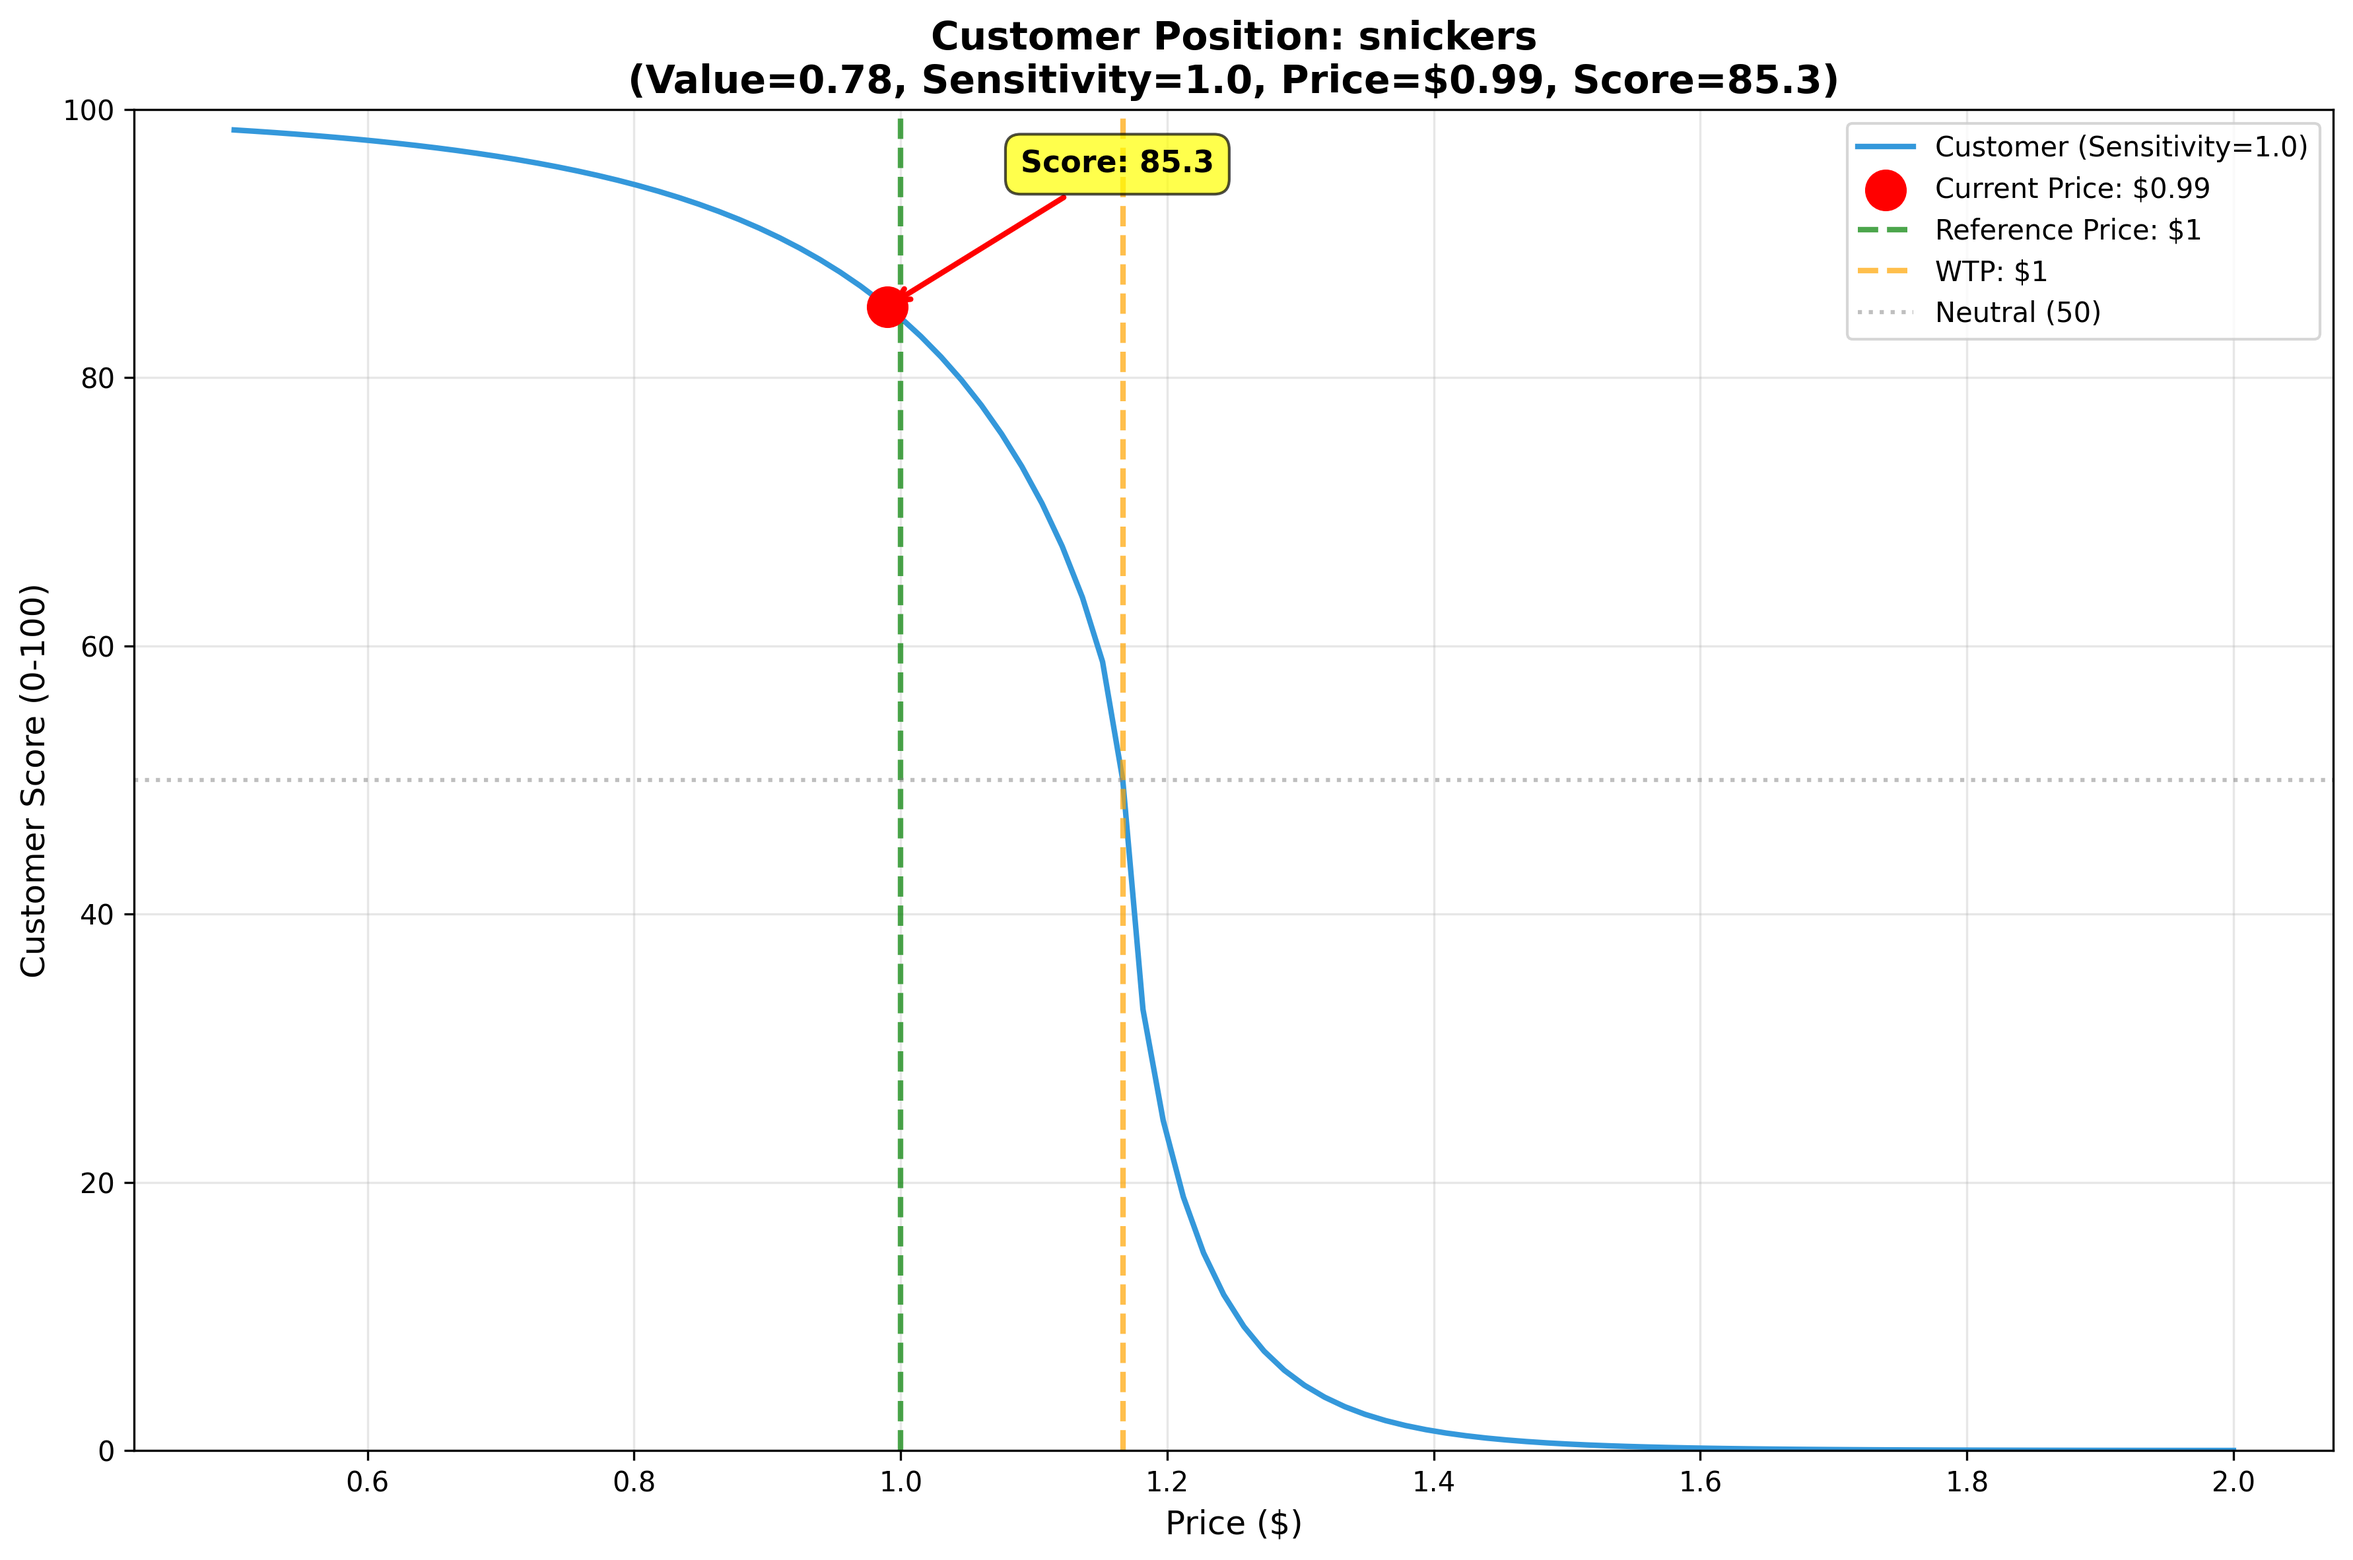
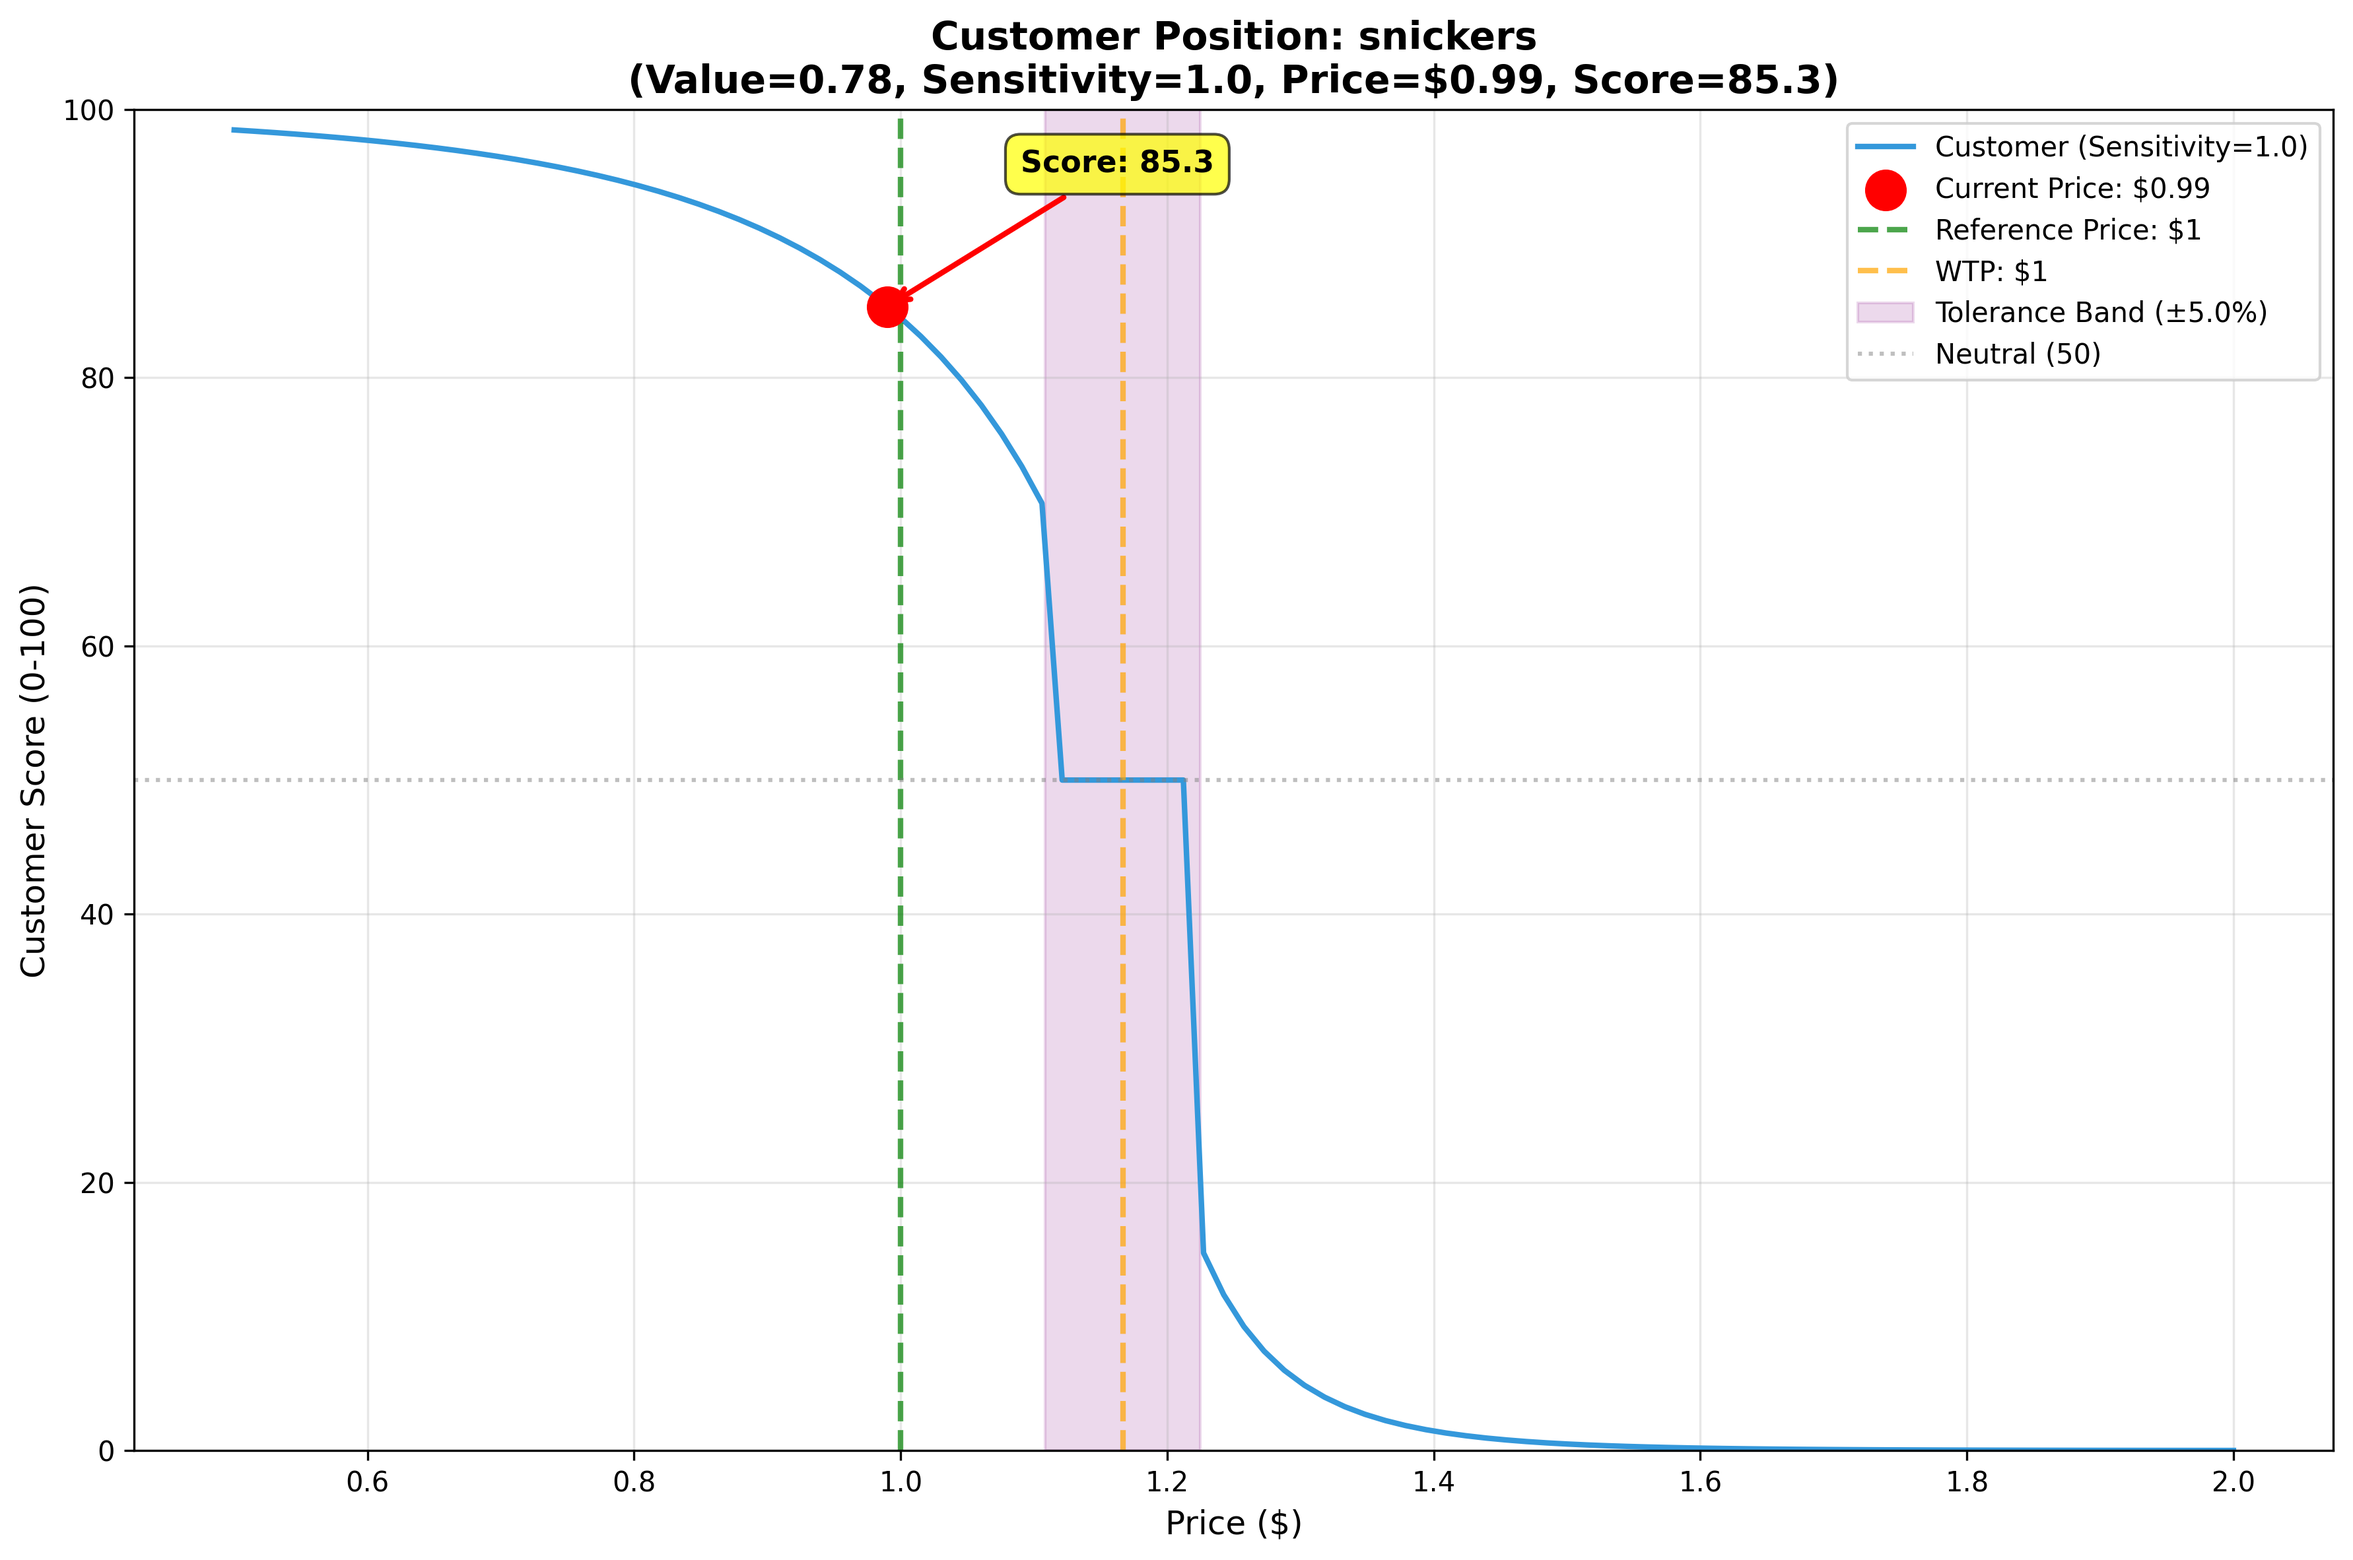
update readme and add tolerance (dead zone) to chart

Changed region(s): [[0.436, 0.1235, 0.5295, 0.9264], [0.7786, 0.1853, 0.9655, 0.247], [0.436, 0.0618, 0.5295, 0.0926]]

diff --git a/model.py b/model.py
@@ -154,7 +154,7 @@ class Customer:
         if chart:
             from plotting import plot_customer_position
 
-            plot_customer_position(self, product, final_score, ref, wtp, value)
+            plot_customer_position(self, product, final_score, ref, wtp, value, rel_uncert)
 
         return final_score
 
@@ -166,15 +166,20 @@ if __name__ == "__main__":
     clear_charts_folder()
 
     # Test the chart generation
-    ref_product = Product(price=1, sku="snickers", category=1, features=[5, 5, 5])
+    # Add multiple reference prices to create meaningful uncertainty
+    ref_product_1 = Product(price=0.95, sku="snickers", category=1, features=[5, 5, 5])
+    ref_product_2 = Product(price=1.00, sku="snickers", category=1, features=[5, 5, 5])
+    ref_product_3 = Product(price=1.05, sku="snickers", category=1, features=[5, 5, 5])
 
     customer = Customer(preferences=[3, 6, 8], max_distance=27, price_sensitivty=1.0)
-    customer.append_memory(ref_product)
+    customer.append_memory(ref_product_1)
+    customer.append_memory(ref_product_2)
+    customer.append_memory(ref_product_3)
 
     test_product_1 = Product(price=0.99, sku="snickers", category=1, features=[5, 5, 5])
     test_product_2 = Product(price=1.20, sku="snickers", category=1, features=[5, 5, 5])
 
-    score_1 = customer.eval_product(test_product_1, chart=True, update_mem=True)
+    score_1 = customer.eval_product(test_product_1, chart=True, update_mem=False)
     print(f"Score: {score_1:.2f}")
 
     score_2 = customer.eval_product(test_product_2, chart=True, update_mem=False)

diff --git a/plotting.py b/plotting.py
@@ -14,7 +14,7 @@ def clear_charts_folder():
     print("Charts folder cleared")
 
 
-def plot_customer_position(customer, product, current_score, ref_price, wtp, value):
+def plot_customer_position(customer, product, current_score, ref_price, wtp, value, rel_uncert):
     """
     Generate a chart showing customer position on pricing curve.
     Called from the score function when chart=True.
@@ -89,6 +89,18 @@ def plot_customer_position(customer, product, current_score, ref_price, wtp, val
         label=f"WTP: ${wtp:.0f}",
         alpha=0.7,
         linewidth=2,
+    )
+
+    # Add tolerance band around WTP (shaded region)
+    tolerance_abs = wtp * rel_uncert
+    tolerance_band_lower = wtp - tolerance_abs
+    tolerance_band_upper = wtp + tolerance_abs
+    plt.axvspan(
+        tolerance_band_lower,
+        tolerance_band_upper,
+        alpha=0.15,
+        color="purple",
+        label=f"Tolerance Band (±{rel_uncert*100:.1f}%)",
     )
 
     # Add neutral score line

diff --git a/README.md b/README.md
@@ -4,31 +4,40 @@ A behavioral economics model that simulates customer decision-making when evalua
 
 ## Example Visualizations
 
-The charts below show the price sensitivity curves for two different scenarios with the same customer and reference price:
+The charts below show the price sensitivity curves for two different scenarios. The customer has seen three historical prices: $0.95, $1.00, and $1.05 (median = $1.00, MAD ≈ 5%).
 
 ### Example 1: Discounted Price ($0.99 vs $1.00 reference)
 
 ![Discounted Snickers](charts/01_snickers.png)
 
-- Product priced at $0.99 (1% below reference)
-- Falls within the **tolerance band** due to uncertainty
-- Results in a high score (~95) as price is perceived as fair
-- Green line shows reference price, orange shows WTP
+- **Product price:** $0.99 (1% below reference)
+- **WTP (Willingness to Pay):** $1.00 (based on value perception)
+- **Tolerance band:** Purple shaded region (±5% around WTP)
+- **Result:** Score ~50 - price falls within tolerance band, perceived as neutral/fair
+- **Key lines:**
+  - Green dashed: Reference price (median of historical prices)
+  - Orange dashed: WTP (what customer is willing to pay based on product value)
+  - Purple shaded: Tolerance band (prices within this zone feel "about the same")
 
 ### Example 2: Premium Price ($1.20 vs $1.00 reference)
 
 ![Premium Snickers](charts/02_snickers.png)
 
-- Product priced at $1.20 (20% above reference)
-- Exceeds tolerance band, triggering **loss aversion**
-- Results in lower score (~89) due to overpricing penalty
-- Note the steeper drop on the right side of the curve (loss aversion effect)
+- **Product price:** $1.20 (20% above reference)
+- **WTP:** $1.00 (same product value as Example 1)
+- **Tolerance band:** ±5% around WTP
+- **Result:** Score ~21.0 - price exceeds tolerance band, triggering **loss aversion**
+- **Key observation:** Note the steeper drop on the right side of the curve compared to the left - this asymmetry demonstrates loss aversion (overpricing hurts 2× more than discounts feel good)
+
+### What These Charts Show
 
 Both examples demonstrate:
-- **S-shaped curve** from sigmoid transformation
-- **Asymmetric response** - steeper decline for overpricing than rise for discounts
-- **Reference price anchoring** - scores relative to $1.00 reference
-- **Tolerance band** - small price variations near reference have minimal impact
+- **S-shaped curve** from sigmoid transformation - realistic customer response
+- **Asymmetric response** - the curve drops more steeply for overpricing (right side) than it rises for discounts (left side)
+- **Reference price anchoring** (green line) - customer expectations based on past prices
+- **WTP calculation** (orange line) - adjusts based on perceived product value
+- **Tolerance band** (purple shading) - price differences within ~5% of WTP are perceived as negligible
+- **Loss aversion** - prices outside the tolerance band on the high side cause dramatic score drops
 
 ## Psychological Features Modeled
 
